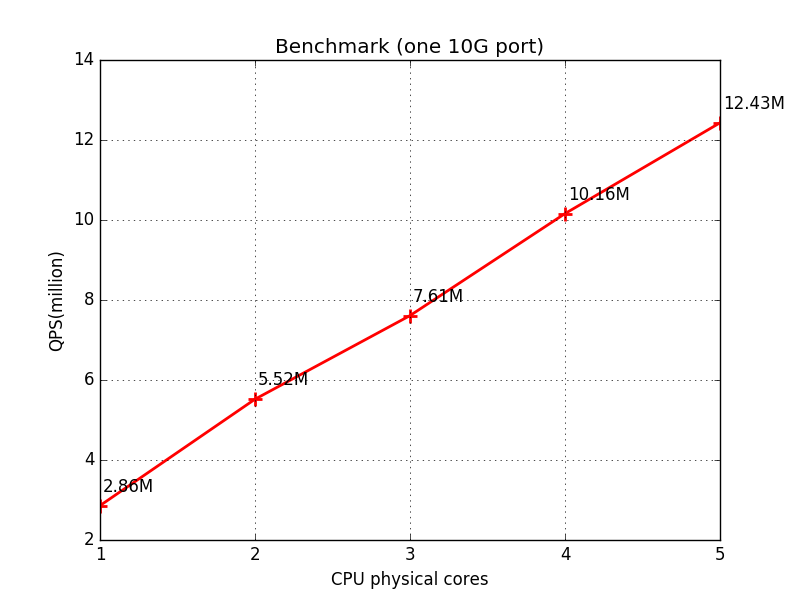
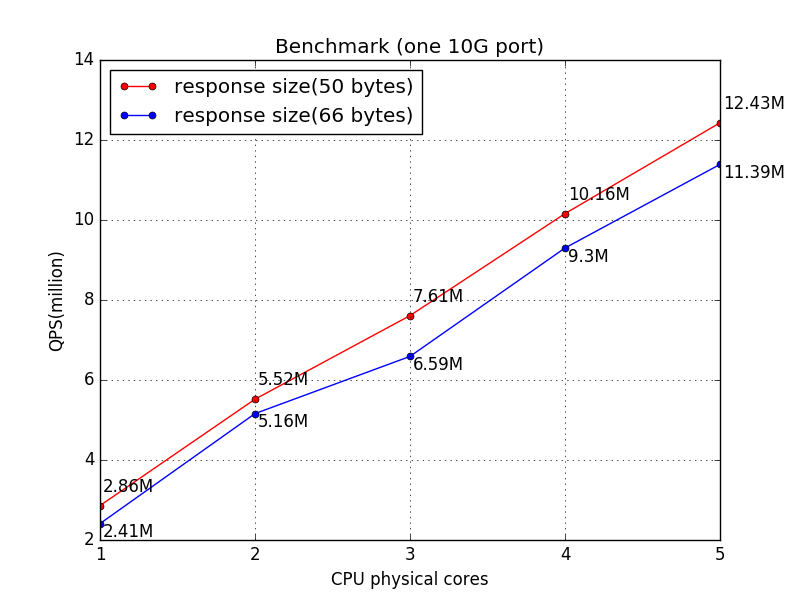
benchmark result

diff --git a/tools/benchmark_plot.py b/tools/benchmark_plot.py
@@ -1,22 +1,69 @@
+from os import path
 import matplotlib.pyplot as plt
 from matplotlib.ticker import MaxNLocator
 
 import numpy as np
 
-ax = plt.subplot(111)
+STATIC_DIR = path.join(path.dirname(path.dirname(path.realpath(__file__))),
+                       "doc", "static")
 
+fig1 = plt.figure()
+ax = fig1.add_subplot(111)
+
+# one port 50 bytes
 x = [1, 2, 3, 4, 5]
-y = [2.86, 5.52, 7.61, 10.16, 12.43]
+y_1_port_small = [2.86, 5.52, 7.61, 10.16, 12.43]
+y_1_port_big = [2.41, 5.16, 6.59, 9.30, 11.39]
 
-plt.plot(x, y, 'r-+', markersize=10, markeredgewidth=2, lw=2)
-for i, j in zip(x, y):
-    ax.annotate(str(j)+"M", xy=(i,j), xytext=(2,10), textcoords='offset points')
+ax.plot(x, y_1_port_small, 'r-o', markersize=5, label="response size(50 bytes)")
+ax.plot(x, y_1_port_big, 'b-o', markersize=5, label="response size(66 bytes)")
 
-plt.xlabel('CPU physical cores')
-plt.ylabel('QPS(million)')
-plt.title('Benchmark (one 10G port)')
-plt.grid(True)
+for i, j in zip(x, y_1_port_small):
+    ax.annotate(str(j)+"M", xy=(i, j), xytext=(2, 10), textcoords='offset points')
+
+for i, j in zip(x, y_1_port_big):
+    ax.annotate(str(j)+"M", xy=(i, j), xytext=(2, -10), textcoords='offset points')
+
+ax.set_xlabel('CPU physical cores')
+ax.set_ylabel('QPS(million)')
+ax.set_title('Benchmark (one 10G port)')
+ax.grid(True)
 ax.xaxis.set_major_locator(MaxNLocator(integer=True))
+ax.legend(loc=2)
 
-plt.savefig("benchmark_1_port.png")
+fig1.savefig(path.join(STATIC_DIR, "benchmark_1_port.png"))
+
+# two port 66 bytes
+x_2_port = [1, 2, 3, 4, 5, 6, 7, 8]
+# currate
+y_2_port_big = [2.60, 5.16, 7.01, 8.96, 11.41, 13.17, 14.88, 16.37]
+# inaccurate, need do brenchmark for small packet(50 bytes)
+y_2_port_small = [2.85, 5.64, 7.80, 10.13, 12.45, 14.68, 16.52, 18.26]
+
+fig2 = plt.figure()
+ax2 = fig2.add_subplot(111)
+
+ax2.grid(True)
+
+ax2.plot(x_2_port, y_2_port_small, "r-o", markersize=5,
+         label="response size(50 bytes)")
+ax2.plot(x_2_port, y_2_port_big, "b-o", label="response size(66 bytes)")
+
+for i, j in zip(x_2_port, y_2_port_small):
+    ax2.annotate(str(j)+"M", xy=(i, j), xytext=(2, 10), textcoords='offset points')
+
+for i, j in zip(x_2_port, y_2_port_big):
+    ax2.annotate(str(j)+"M", xy=(i, j), xytext=(2, -10), textcoords='offset points')
+# colormap = plt.cm.gist_ncar #nipy_spectral, Set1,Paired
+# colors = [colormap(i) for i in np.linspace(0, 1,len(ax2.lines))]
+# for i, j in enumerate(ax2.lines):
+#     j.set_color(colors[i])
+
+ax2.set_xlabel('CPU physical cores')
+ax2.set_ylabel('QPS(million)')
+ax2.set_title('Benchmark (two 10G port)')
+ax2.grid(True)
+ax2.legend(loc=2)
+fig2.savefig(path.join(STATIC_DIR, "benchmark_2_port.png"))
+
 plt.show()

diff --git a/readme.md b/readme.md
@@ -16,13 +16,17 @@ An authority-only dns server implemented with DPDK
     
 ### result
 
-1. one 10G port(response size: 50 bytes)
+1. one 10G port
 
     ![benchmark(1 10G port)](doc/static/benchmark_1_port.png)
     
-   pls note when test with 5 cores, shuke actually processed 12.43M request per second,
-   but the client reports 10.7M, this because the NIC doesn't have enough bandwidth.
+   pls note when test with 5 cores, shuke actually processed 12.43M and 11.39M requests per second,
+   but the client reports 10.7M and 9.46M, this is because the NIC doesn't have enough bandwidth.
    
+2. two 10G port
+
+    ![benchmark(2 10G port)](doc/static/benchmark_2_port.png)
+    
 ## Quick start
 ### buid
 
